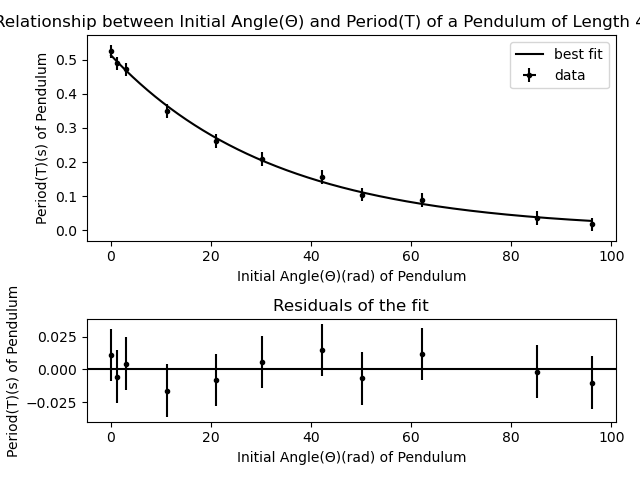
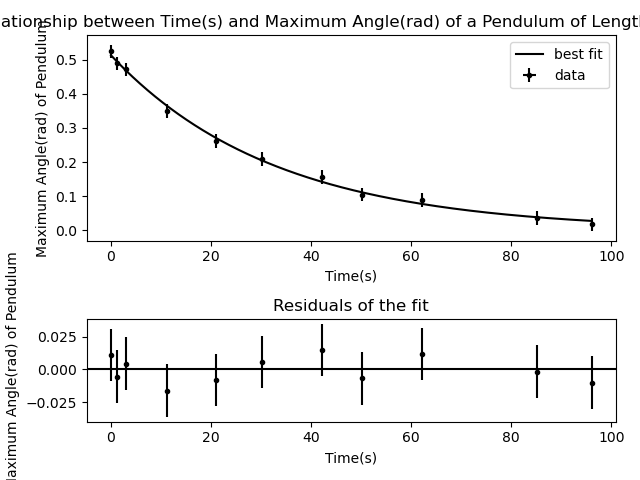
lol

diff --git a/fitting_exp.py b/fitting_exp.py
@@ -130,9 +130,9 @@ def main():
     # Prints a box using what's in the "label" strings in the previous two lines.
     # loc specifies the location
 
-    ax1.set_xlabel("Initial Angle(Θ)(rad) of Pendulum")
-    ax1.set_ylabel("Period(T)(s) of Pendulum")
-    ax1.set_title("Relationship between Initial Angle(Θ) and Period(T) of a Pendulum of Length 40.37cm")
+    ax1.set_xlabel("Time(s)")
+    ax1.set_ylabel("Maximum Angle(rad) of Pendulum")
+    ax1.set_title("Relationship between Time(s) and Maximum Angle(rad) of a Pendulum of Length 40.37cm")
     # Here is where you change how your graph is labelled.
 
     #ax1.set_xscale('log')
@@ -157,8 +157,8 @@ def main():
     ax2.axhline(y=0, color="black")
     # Plot the y=0 line for context.
 
-    ax2.set_xlabel("Initial Angle(Θ)(rad) of Pendulum")
-    ax2.set_ylabel("Period(T)(s) of Pendulum")
+    ax2.set_xlabel("Time(s)")
+    ax2.set_ylabel("Maximum Angle(rad) of Pendulum")
     ax2.set_title("Residuals of the fit")
     # Here is where you change how your graph is labelled.
 
